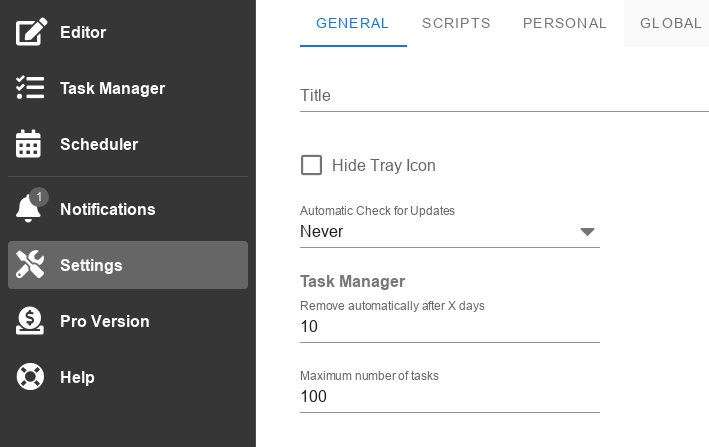
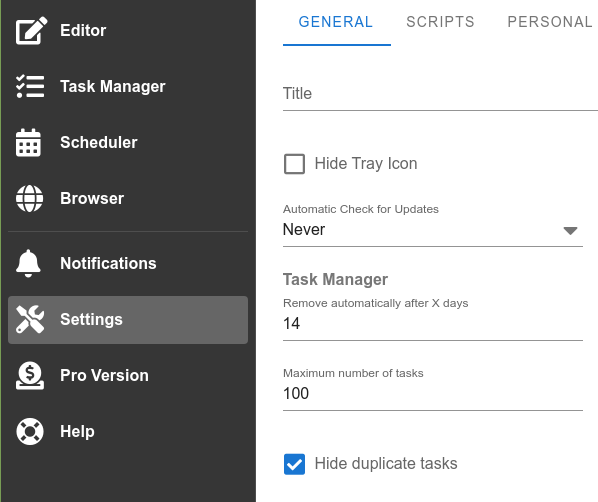
Add hide dup tasks

diff --git a/ru/docs/settings.md b/ru/docs/settings.md
@@ -35,6 +35,9 @@ img:
 **Максимальное количество задач**  
 Укажите максимальное количество задач, которые необходимо хранить.
 
+**Скрывать повторяющиеся задачи**  
+Отметьте этот чекбокс, если вы хотите скрыть повторяющиеся задачи в Диспетчере задач. В этом случае, если имеется несколько задач с одинаковыми именем скрипта, статусом и пользователем, то в списке будет показываться только последняя завершенная задача. Закреплённые и незавершённые задачи показываются всегда. 
+
 %html.settings-general-2%
 
 ## Скрипты

diff --git a/ru/docs/changelog-2021.md b/ru/docs/changelog-2021.md
@@ -8,7 +8,9 @@ desc: История изменений программы Eonza за 2021
 ## Версия разработчика -->
 ## Версия разработчика
 
+* Добавлен чекбокс *Скрывать повторяющие задачи* (в Диспетчере задач) в общих настройках программы.
 * Добавлен параметр *Пароль sudo* в команду [Bash](/ru/scripts/bash.html).
+* Добавлено изменение статуса задачи (Прерван) при её внешнем завершении пользователем. Например, Ctrl-C в терминале.
 
 ## Версия 1.22.0 - 2021/10/01
 

diff --git a/en/docs/settings.md b/en/docs/settings.md
@@ -46,6 +46,9 @@ Specify the number of days after which a completed task can be deleted.
 **Maximum number of tasks**  
 Specify the maximum number of tasks to be stored.
 
+**Hide duplicate tasks**  
+Check this checkbox if you want to hide duplicate tasks in the Task Manager. In this case, if there are several tasks with the same script name, status and user, then only the most recent completed task will be shown in the list. Pinned and unfinished tasks are always shown. 
+
 %html.settings-general-2%
 
 ## Scripts

diff --git a/en/docs/changelog-2021.md b/en/docs/changelog-2021.md
@@ -9,7 +9,9 @@ desc: Eonza Program Changelog for 2021
 
 ## Developer version
 
+* Added a checkbox *Hide duplicate tasks* (in the Task Manager) in the general settings of the program.
 * Added the *sudo Password* parameter to the [Bash](/scripts/bash.html) command.
+* Added a change in the task status (Terminated) when it is externally terminated by the user. For example, Ctrl-C in the terminal.
 
 ## Version 1.22.0 - 2021/10/01
 

diff --git a/en/pro-version.md b/en/pro-version.md
@@ -35,7 +35,7 @@ If you use Eonza, you can become one of the first users of the Pro version for f
 
 License Term | Used/Reserved
 -------------|---------------
-**1 year** | **30/64**
+**1 year** | **31/64**
 
 ## Purchase Pro version
 
